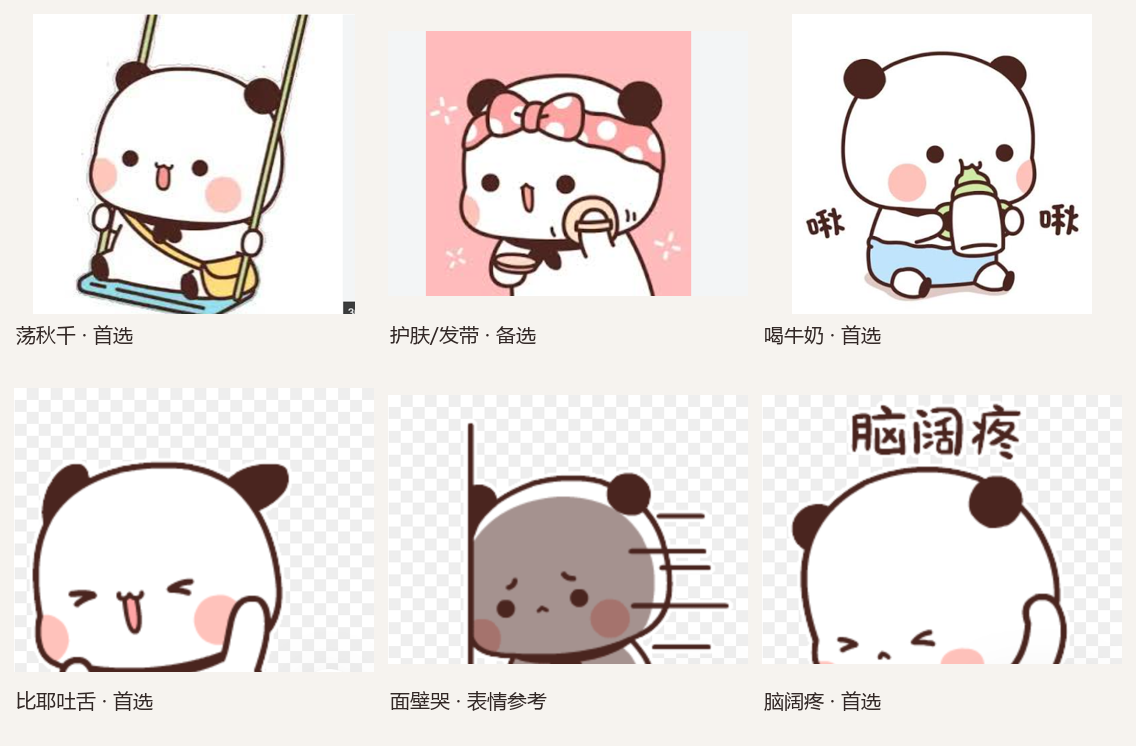
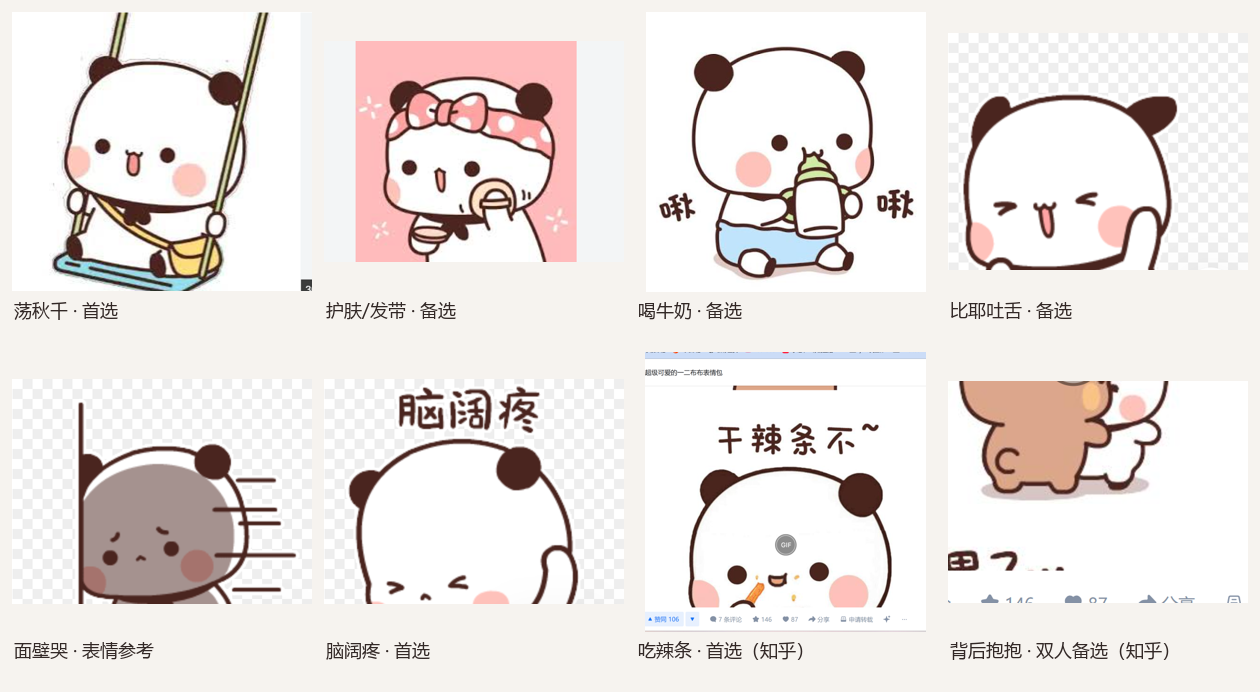
docs: 补充知乎动作参考与 5 个 HD 动作提示词

diff --git a/prompts/hd-actions.md b/prompts/hd-actions.md
@@ -1,0 +1,289 @@
+# 一二 HD 动作提示词（豆包 / 图生视频）
+
+> 用途：把「一二」从 192×208 像素图集升级成接近大肥鱼质感的 640×360 透明动画。
+> 目标不是一次做 35 段，而是先做 5 个高动态动作，把“展示效果”拉起来。
+
+## 0. 参考图准备
+
+### 0.1 标准角色图（canonical）
+
+用你那段 720p 绿幕视频的 **0 秒正面站立帧**（无水印、全身、脚底同线）作为标准参考。
+后面每个动作都上传同一张，保证一二不会“每段长得不一样”。
+
+如果重新生成，提示词：
+
+```text
+16:9 横屏，纯绿幕背景 #00FF00，全身，正面站立，角色居中，
+脚底在画面高度 85% 处，头顶留 15% 空间，双手自然下垂，表情中性。
+只出现一个角色：一二，白色圆润 Q 版身体，深棕色圆耳朵，粉色腮红，
+黑色小圆眼，tiny w 形嘴，没有眉毛，脖子上有深棕色小领结，
+头身比约 1:1，短手短脚，软萌温柔。
+高清动画设定图，干净线条，柔和配色，不要像素风、不要马赛克、
+不要阴影、不要地面、不要文字、不要水印。
+```
+
+### 0.2 动作参考图
+
+本仓库 `assets/references/actions/` 下有：
+
+| 动作 | 参考图 | 用途 |
+| --- | --- | --- |
+| 吃辣条 | `07-spicy-strip.png` | 动作/道具参考（来自知乎文章） |
+| 荡秋千 | `01-swing.png` | 动作/道具参考（用户提供） |
+| 背后抱抱 | `09-backhug.png` | 双人动作参考（来自知乎文章） |
+| 拜托 球球你 | `previews/zhihu-article.png` 中间 | 表情/手势参考（来自知乎文章） |
+| 脑阔疼 | `06-headache.png` | 表情参考（用户提供） |
+| 喝牛奶（备选） | `03-milk.png` | 动作/道具参考 |
+| 比耶吐舌（备选） | `04-peace.png` | 表情/手势参考 |
+
+**重要**：动作图只提供姿势/道具，角色外观一律以 canonical 图为准。
+半身图不要直接当首帧，先补全全身和绿幕。
+
+---
+
+## 1. 我选的 5 个动作
+
+| 优先级 | 动作 | 分类 | 为什么选 |
+| ---: | --- | --- | --- |
+| 1 | 吃辣条 | 吃什么 | 有明确道具、咬/辣到/碎屑，动态最强，最像大肥鱼的吃播动作 |
+| 2 | 荡秋千 | 玩耍 | 秋千+前后荡+踢腿，构图完整，和大肥鱼荡秋千同类 |
+| 3 | 背后抱抱 | 双人互动 | 布布从背后抱住一二，有爱心和贴贴，情绪价值最高 |
+| 4 | 拜托 球球你 | 点击/请求 | 双手合十+歪头+闪光，表情最强，适合点击回应 |
+| 5 | 脑阔疼 | 工作出错 | 抱头+闭眼+摇晃，梗感强，适合工作状态/出错 |
+
+备选：喝牛奶（吃喝）、比耶吐舌（成功/点击）。
+
+---
+
+## 2. 通用参数
+
+| 项目 | 建议 |
+| --- | --- |
+| 模式 | 图生视频 / 首帧（支持多图就加动作参考） |
+| 时长 | 5 秒；支持 6/10 秒再拉长 |
+| 分辨率 | 1080p（720p 也够 640×360） |
+| 帧率 | 24fps |
+| 镜头 | 固定机位，不要推拉/旋转/缩放 |
+| 水印 | 能关就关；不能关就保持在角落，后期裁掉 |
+| 生成数量 | 每个动作 2～4 条，挑角色没变形、绿边干净、没出画的 |
+| 首尾帧 | 有“首尾帧”就首尾传同一张；没有就要求结尾回到第一帧姿势 |
+
+---
+
+## 3. 完整提示词
+
+### 3.1 吃辣条（首选）
+
+```text
+以参考图中的「一二吃辣条」为动作和道具参考，只参考拿辣条、咬、被辣到的动作；
+不要参考原图的文字“干辣条不~”、GIF 徽标、网页 UI 或白色背景。
+角色外观严格保持标准参考图：白色圆润身体、深棕色圆耳朵、粉色腮红、
+黑色小圆眼、tiny w 形嘴、没有眉毛、深棕色小领结、短手短脚。
+不要改变角色设计，不要出现第二个角色。
+
+16:9 横屏，固定机位，平视，全身，角色始终位于画面中央，
+脚底在同一条水平线上，头顶留 15%。纯绿幕背景 #00FF00，
+背景干净均匀，无地面、无阴影、无投影、无文字、无水印、
+无镜头运动、无缩放、无转场。角色边缘清晰，绿色不溢出。
+24fps，高清，干净线条，柔和配色，动画风格。
+
+动作：0-1s 双手拿着一根长长的橙红色辣条，举在胸前；
+1-2s 咬一口，辣条变短；2-3s 咀嚼，腮帮子一鼓一鼓，眼睛满足地眯起；
+3-4s 被辣到，轻轻吐出舌头、哈气，少量碎屑飞出；
+4-5s 再咬一口，露出满足表情。辣条不要消失、不要变形、不要穿过手；
+碎屑少量，不要遮挡脸。
+
+最后 0.5 秒回到与第一帧相近的正面站立姿势，角色始终完整入画。
+```
+
+**注意**：辣条是橙红色，不要让它变成绿色；碎屑后期也能加，生成时少量即可。
+
+---
+
+### 3.2 荡秋千（首选）
+
+```text
+以参考图中的「一二荡秋千」为动作和道具参考，只参考动作、秋千和黄色小挎包，
+不要参考原图的白色背景、角标或 UI。角色外观严格保持标准参考图：
+白色圆润身体、深棕色圆耳朵、粉色腮红、黑色小圆眼、tiny w 形嘴、
+没有眉毛、深棕色小领结、短手短脚。不要改变角色设计，不要出现第二个角色。
+
+16:9 横屏，固定机位，平视，全身，角色和秋千完整在画面内；
+秋千绳从画面上方进入，坐板在画面下方 85% 以内，头顶留 15%。
+纯绿幕背景 #00FF00，无地面、无阴影、无树木、无天空、无文字、无水印、
+无镜头运动、无缩放、无转场。秋千绳和坐板改为深棕色/米色，不要绿色。
+24fps，高清，干净线条，柔和配色，动画风格。
+
+动作：0-1s 坐在秋千上，双手抓绳，轻轻前后晃；
+1-2.5s 向后荡起，双腿向前踢，舌头微微吐出，表情开心；
+2.5-4s 向前荡回，身体后仰，耳朵轻微跟随；
+4-5s 回到中间，继续轻晃。秋千绳和坐板不要断开、不要穿模，
+角色不要离开坐板。
+
+最后 0.5 秒回到与第一帧相近的姿势，角色和秋千始终完整入画。
+```
+
+**注意**：原图秋千绳是绿色的，上绿幕会消失；一定要改成深棕色/米色。
+
+---
+
+### 3.3 背后抱抱（双人，难度较高）
+
+```text
+以参考图中的「布布从背后抱住一二」为动作参考，只参考拥抱姿势和爱心；
+不要参考原图的 GIF 徽标、网页 UI 或白色背景。
+角色：前面是一二，白色圆润身体、深棕色圆耳朵、粉色腮红、黑色小圆眼、
+tiny w 形嘴、没有眉毛、深棕色小领结；后面是布布，奶茶棕色小熊、
+深棕色描边、黄色腮红、困困的半眯眼、小圆耳朵。两个角色都保持标准外观，
+不要改变设计；画面中只出现这两个角色，不要出现第三个角色。
+
+16:9 横屏，固定机位，平视，全身，两个角色前后站位，
+脚底在同一条水平线上，头顶留 15%。纯绿幕背景 #00FF00，
+无地面、无阴影、无文字、无水印、无镜头运动、无缩放、无转场。
+24fps，高清，干净线条，柔和配色，动画风格。
+
+动作：0-1s 一二站着，布布从后面走近；1-2s 布布双手环住一二的腰/肩，
+下巴轻轻靠在一二头上；2-3.5s 一二害羞地笑，两个角色轻轻晃；
+3.5-4.5s 布布蹭一下，出现 1～2 颗小爱心；4.5-5s 保持拥抱，回到正面。
+布布的手臂不要穿过一二的身体，手要清楚，不要多手；爱心少量，不要遮挡脸。
+
+最后 0.5 秒回到与第一帧相近的拥抱姿势，两个角色始终完整入画。
+```
+
+**注意**：这个动作需要一张高清的**布布**绿幕参考图；如果布布还没 HD 化，先做布布的单人待机，再做抱抱。
+
+---
+
+### 3.4 拜托 球球你（首选）
+
+```text
+以参考图中的「一二双手合十拜托」为表情和手势参考，只参考合十、歪头、
+期待表情和少量闪光；不要参考原图的文字“拜托 球球你”、GIF 徽标、
+网页 UI 或背景。角色外观严格保持标准参考图：白色圆润身体、
+深棕色圆耳朵、粉色腮红、黑色小圆眼、tiny w 形嘴、没有眉毛、
+深棕色小领结、短手短脚。不要改变角色设计，不要出现第二个角色。
+
+16:9 横屏，固定机位，平视，全身，角色正面站立在画面中央，
+脚底在同一条水平线上，头顶留 15%。纯绿幕背景 #00FF00，
+无地面、无阴影、无文字、无水印、无镜头运动、无缩放、无转场。
+24fps，高清，干净线条，柔和配色，动画风格。
+
+动作：0-1s 正面站立；1-2s 双手在胸前合十，眼睛睁大，身体微微前倾；
+2-3.5s 上下轻轻晃动手，做出拜托的动作，周围出现少量闪光；
+3.5-4.5s 歪头，露出期待表情；4.5-5s 保持合十，回到正面。
+手指不要粘连；闪光少量，不要遮挡脸。
+
+最后 0.5 秒回到与第一帧相近的正面站立姿势，角色始终完整入画。
+```
+
+---
+
+### 3.5 脑阔疼（首选）
+
+```text
+以参考图中的「一二抱头喊脑阔疼」为表情参考，只参考闭眼、皱眉、抱头的姿势；
+不要参考原图的“脑阔疼”文字、GIF 徽标、网页 UI 或背景。
+角色外观严格保持标准参考图：白色圆润身体、深棕色圆耳朵、粉色腮红、
+黑色小圆眼、tiny w 形嘴、没有眉毛、深棕色小领结、短手短脚。
+不要改变角色设计，不要出现第二个角色。
+
+16:9 横屏，固定机位，平视，全身，角色正面站立在画面中央，
+脚底在同一条水平线上，头顶留 15%。纯绿幕背景 #00FF00，
+无地面、无阴影、无文字、无水印、无镜头运动、无缩放、无转场。
+24fps，高清，干净线条，柔和配色，动画风格。
+
+动作：0-1s 正面站立；1-2s 双手抱住头两侧，眼睛闭上，眉头皱起；
+2-3.5s 头左右轻轻摇晃，身体跟着晃，嘴角向下，表情痛苦；
+3.5-4.5s 一只手扶额头，叹一口气；4.5-5s 放下手，回到有点委屈的正面站立。
+不要出现文字“脑阔疼”，后期加。
+
+最后 0.5 秒回到与第一帧相近的正面站立姿势，角色始终完整入画。
+```
+
+---
+
+### 3.6 备选：喝牛奶
+
+```text
+以参考图中的「一二抱奶瓶喝奶」为动作和道具参考，只参考坐姿、奶瓶和手部动作；
+不要参考原图的白色背景、两侧的“啾”字或 UI。角色外观严格保持标准参考图：
+白色圆润身体、深棕色圆耳朵、粉色腮红、黑色小圆眼、tiny w 形嘴、
+没有眉毛、深棕色小领结、短手短脚。服装统一为白色身体、不穿裤子；
+如果保留参考图的浅蓝色短裤，请在所有动作里统一。不要出现第二个角色。
+
+16:9 横屏，固定机位，平视，全身，角色坐在地上，臀部和脚在画面下方 85% 以内，
+头顶留 15%。纯绿幕背景 #00FF00，无地面、无阴影、无文字、无水印、
+无镜头运动、无缩放、无转场。奶瓶的绿色部分改成奶油色/浅蓝色，不要纯绿。
+24fps，高清，干净线条，柔和配色，动画风格。
+
+动作：0-1s 坐在地上，双手抱着奶瓶；1-2s 把奶瓶举到嘴边，头微微后仰；
+2-4s 咕嘟咕嘟喝奶，腮帮子一鼓一鼓，眼睛满足地眯起；
+4-5s 放下奶瓶，舔一下嘴角，回到坐姿。奶瓶不要消失、不要变形、不要穿过手。
+
+最后 0.5 秒回到与第一帧相近的坐姿，角色始终完整入画。
+```
+
+---
+
+### 3.7 备选：比耶吐舌
+
+```text
+以参考图中的「一二吐舌头比耶」为表情和手势参考，只参考表情、舌头和比耶手势；
+不要参考原图的透明棋盘格、找相似按钮或 UI。身体、比例、脚底以标准全身参考图为准，
+补全全身：白色圆润身体、深棕色圆耳朵、粉色腮红、黑色小圆眼、tiny w 形嘴、
+没有眉毛、深棕色小领结、短手短脚。不要改变角色设计，不要出现第二个角色。
+
+16:9 横屏，固定机位，平视，全身，角色正面站立在画面中央，
+脚底在同一条水平线上，头顶留 15%。纯绿幕背景 #00FF00，
+无地面、无阴影、无文字、无水印、无镜头运动、无缩放、无转场。
+24fps，高清，干净线条，柔和配色，动画风格。
+
+动作：0-1s 正面站立；1-2s 抬起一只手在脸旁比耶，舌头轻轻吐出，
+另一只眼睛眨一下；2-3.5s 保持比耶，身体左右轻晃，笑容变大；
+3.5-4.5s 手放下一点，再比一次；4.5-5s 回到正面站立，保留微笑。
+比耶的手要清晰：食指和中指伸出成 V 字，不要多指、不要粘连。
+
+最后 0.5 秒回到与第一帧相同的正面站立姿势，角色始终完整入画。
+```
+
+---
+
+## 4. 负面提示词
+
+```text
+低清晰度，模糊，像素化，马赛克，锯齿，噪点，角色变形，脸部崩坏，
+多手多脚，手指粘连，五官漂移，角色复制，第二个角色，背景杂物，
+地面，阴影，投影，绿色溢色，镜头运动，推拉镜头，旋转镜头，
+缩放，转场，字幕，文字，水印，logo，服装变化，颜色变化，
+角色出画，角色被裁切
+```
+
+---
+
+## 5. 生成后检查
+
+- 耳朵、领结、腮红颜色有没有变；
+- 眼睛有没有变型、变多、变少；
+- 手指有没有粘连、多手多脚；
+- 白毛边缘有没有明显绿边；
+- 脚底有没有漂移、角色有没有出画；
+- 动作是不是你要的（吃辣条要看到咬和碎屑；拜托要看到合十和歪头）；
+- 首尾姿势是否接近，方便循环；
+- 画面里有没有第二个角色或奇怪道具。
+
+---
+
+## 6. 发我什么
+
+每个动作一个 MP4：
+
+```text
+吃辣条.mp4
+荡秋千.mp4
+背后抱抱.mp4
+拜托球球你.mp4
+脑阔疼.mp4
+```
+
+再加每个动作的首帧 PNG 和标准参考图。我会用 `scripts/import_video.py` 抠像、
+去水印、缩放到 270px 角色高度、编码成 640×360 VP9-alpha，接进 `one-two-hd`。

diff --git a/assets/references/actions/README.md b/assets/references/actions/README.md
@@ -11,6 +11,8 @@
 | `04-peace.png` | 比耶吐舌 | 首选：点击回应/成功 | 半身；只做表情/手势参考，身体用 canonical 全身帧补全 |
 | `05-wall-cry.png` | 面壁哭 | 表情参考 | 墙、阴影、灰色滤镜不适合透明桌宠，不建议做独立动作 |
 | `06-headache.png` | 脑阔疼 | 首选：工作出错/卡住 | 半身、有“脑阔疼”文字；生成时去掉文字，补全全身 |
+| `07-spicy-strip.png` | 吃辣条 | 首选：吃喝类大动作 | 来自知乎文章；动作/道具参考，去掉“干辣条不~”文字和 GIF 徽标 |
+| `09-backhug.png` | 背后抱抱 | 双人备选 | 来自知乎文章；布布从背后抱住一二，需要布布 HD 参考图 |
 
 ## 推荐优先级
 
